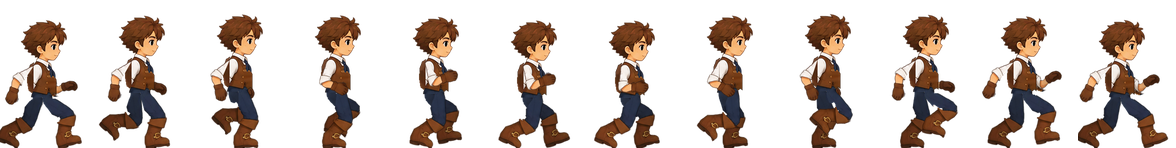
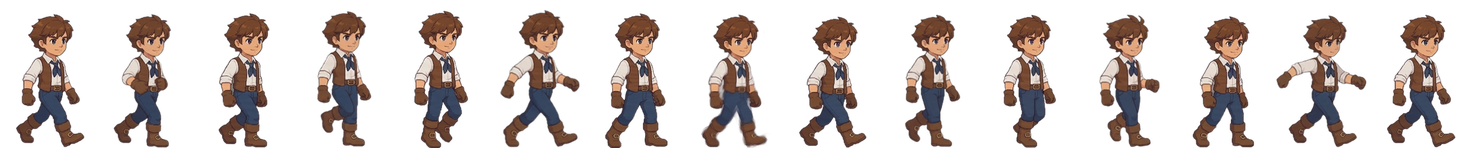
Arthur side walk from Sprixen (matches the new idle)
15-frame walk generated in Sprixen from the Version 1 sprite, stabilized by
tools/sprixen/build_walk_strip.py (torso locked in place, height pops smoothed,
duplicate seam frame dropped). The previous rigged walk is kept in
tools/source_art/arthur_side_walk_v4_rig.png.

Claude-Session: https://claude.ai/code/session_01BTTj8a1B5QVYLgtfGJQMDk

diff --git a/tools/sprixen/build_walk_strip.py b/tools/sprixen/build_walk_strip.py
@@ -1,0 +1,80 @@
+"""Turn the Sprixen walk sheet (16 x 256px frames) into art/<hero>_side_walk.png.
+
+Sprixen's in-place walk wobbles: a couple of frames sit ~19px off-centre and the
+height jumps by up to 10px between neighbours. Each frame is therefore
+  1. shifted so the torso centre is fixed (no side-to-side jitter),
+  2. uniformly rescaled about the feet so its height follows a smoothed
+     (circular 3-tap average) curve, keeping the bob but losing the pops,
+then scaled to in-game height into 98x148 cells, feet on the bottom row.
+It also prints the ground speed (px/s at the game's sprite scale) that keeps the
+planted foot from sliding.
+
+usage: python3 build_walk_strip.py <sheet.png> <out.png> [target_height=133] [fps=20] [frame list e.g. 0,1,2]
+"""
+import sys
+import numpy as np
+from PIL import Image
+
+SRC = 256
+CELL_W, CELL_H = 98, 148
+FOOT_Y = 147
+CENTER_X = 46
+GAME_SCALE = 0.75   # player.gd SCALE
+
+
+def alpha(f):
+    return np.array(f)[:, :, 3] > 40
+
+
+def main():
+    sheet = Image.open(sys.argv[1]).convert("RGBA")
+    out = sys.argv[2]
+    target_h = float(sys.argv[3]) if len(sys.argv) > 3 else 133.0
+    fps = float(sys.argv[4]) if len(sys.argv) > 4 else 20.0
+    n_all = sheet.width // SRC
+    order = [int(x) for x in sys.argv[5].split(",")] if len(sys.argv) > 5 else list(range(n_all))
+    frames = [sheet.crop((i * SRC, 0, (i + 1) * SRC, SRC)) for i in order]
+    info = []
+    for f in frames:
+        a = alpha(f)
+        ys, xs = np.where(a)
+        top, bot = ys.min(), ys.max()
+        tys, txs = np.where(a[top + 75:top + 105])
+        info.append(dict(top=top, bot=bot, h=bot - top, torso=txs.mean()))
+    hs = np.array([d["h"] for d in info], float)
+    n = len(frames)
+    smooth = np.array([(hs[i - 1] + hs[i] + hs[(i + 1) % n]) / 3 for i in range(n)])
+    base = target_h / float(np.median(hs))
+    strip = Image.new("RGBA", (CELL_W * n, CELL_H), (0, 0, 0, 0))
+    foot_x = []   # x of the lowest (planted) foot, in game cell px, per frame
+    for i, (f, d) in enumerate(zip(frames, info)):
+        s = base * smooth[i] / d["h"]
+        w2, h2 = round(SRC * s), round(SRC * s)
+        big = f.resize((w2 * 2, h2 * 2), Image.LANCZOS).resize((w2, h2), Image.LANCZOS)
+        # place: torso centre -> CENTER_X, feet bottom -> FOOT_Y
+        px = round(i * CELL_W + CENTER_X - d["torso"] * s)
+        py = round(FOOT_Y - d["bot"] * s)
+        cell = Image.new("RGBA", (CELL_W * n, CELL_H), (0, 0, 0, 0))
+        cell.alpha_composite(big, (max(px, 0), max(py, 0)),
+                             (max(-px, 0), max(-py, 0)))
+        # clip to own cell
+        mask = Image.new("L", cell.size, 0)
+        mask.paste(255, (i * CELL_W, 0, (i + 1) * CELL_W, CELL_H))
+        clipped = Image.new("RGBA", cell.size, (0, 0, 0, 0))
+        clipped.paste(cell, (0, 0), mask)
+        strip.alpha_composite(clipped)
+        a = alpha(f)
+        ys, xs = np.where(a)
+        low = xs[ys > d["bot"] - 4]
+        foot_x.append((low.min() - d["torso"]) * s)   # toe-side unused; heel edge
+    strip.save(out)
+    # planted-foot slide per frame (backwards = positive speed)
+    dx = [foot_x[i] - foot_x[(i + 1) % n] for i in range(n)]
+    good = [v for v in dx if 0 < v < 15]
+    v = float(np.median(good)) * fps * GAME_SCALE if good else 0
+    print(f"{n} frames {order} -> {out}; median height {np.median(hs):.0f}px; "
+          f"foot slide/frame {np.round(dx,1).tolist()}; suggested speed {v:.0f} px/s at {fps:.0f} fps")
+
+
+if __name__ == "__main__":
+    main()
